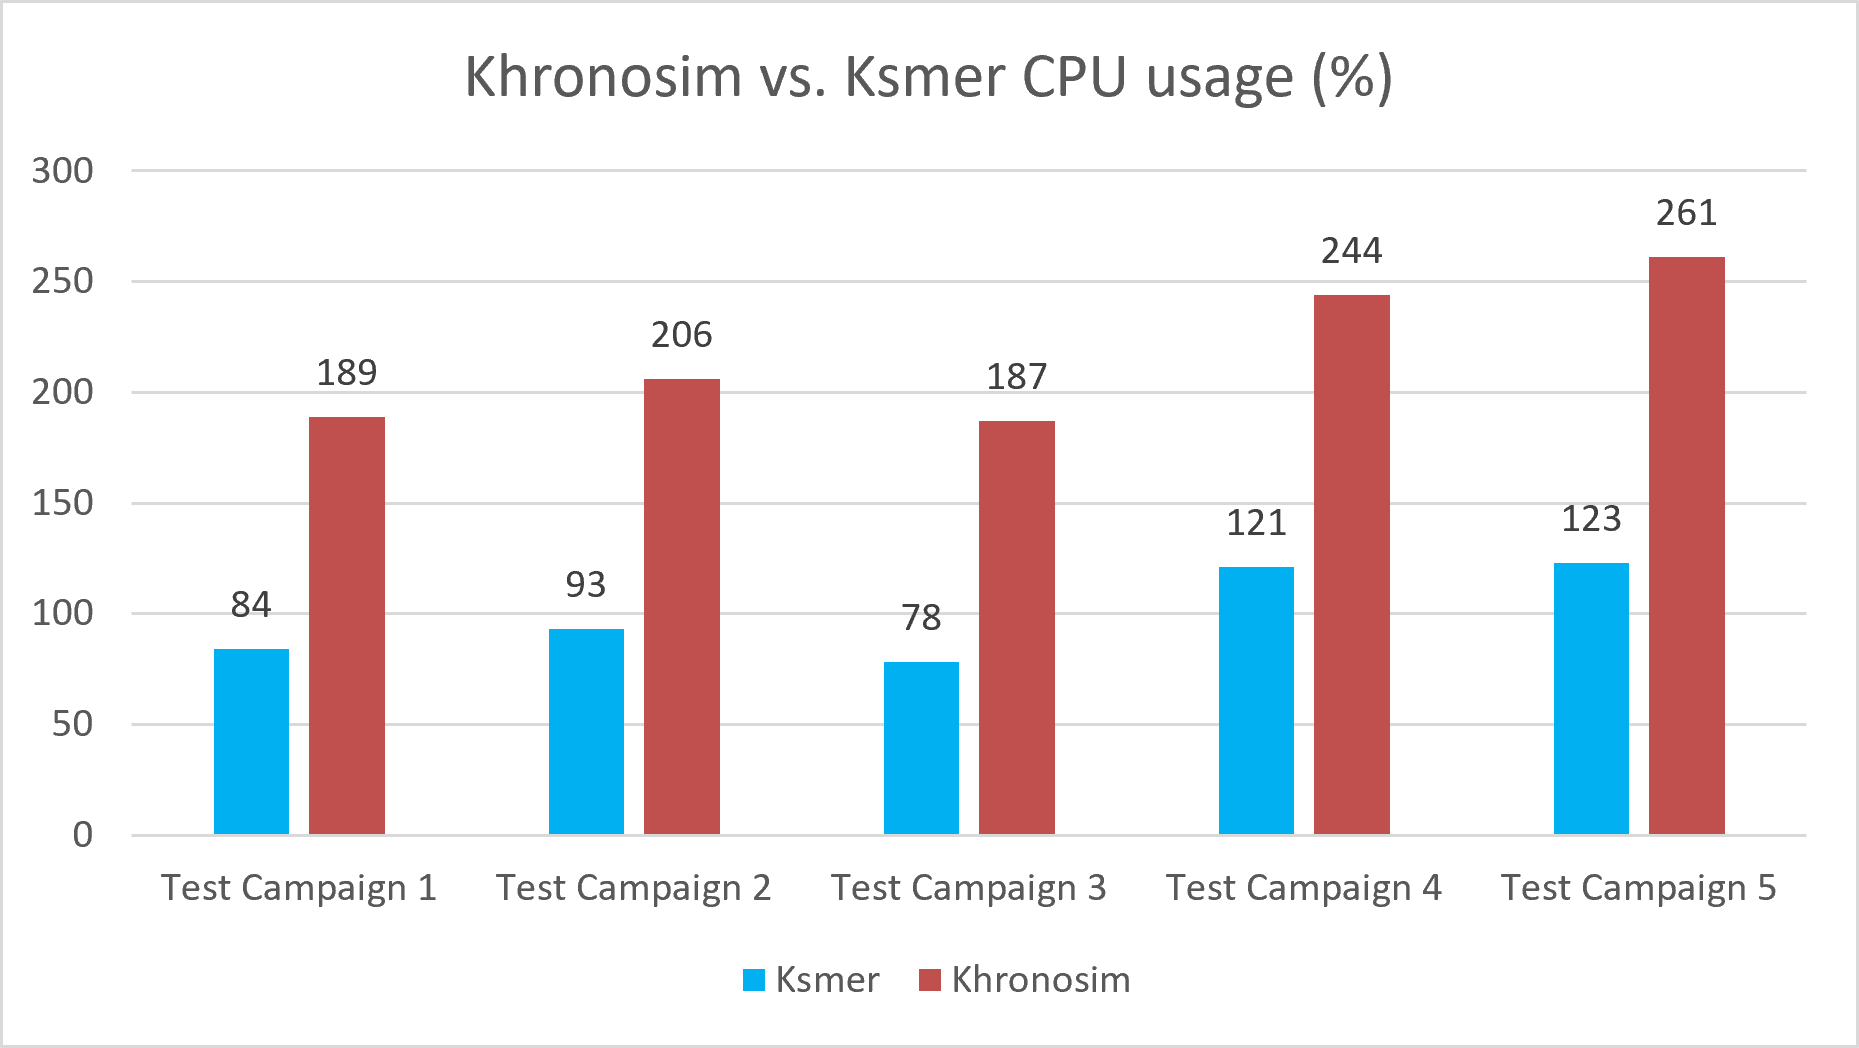
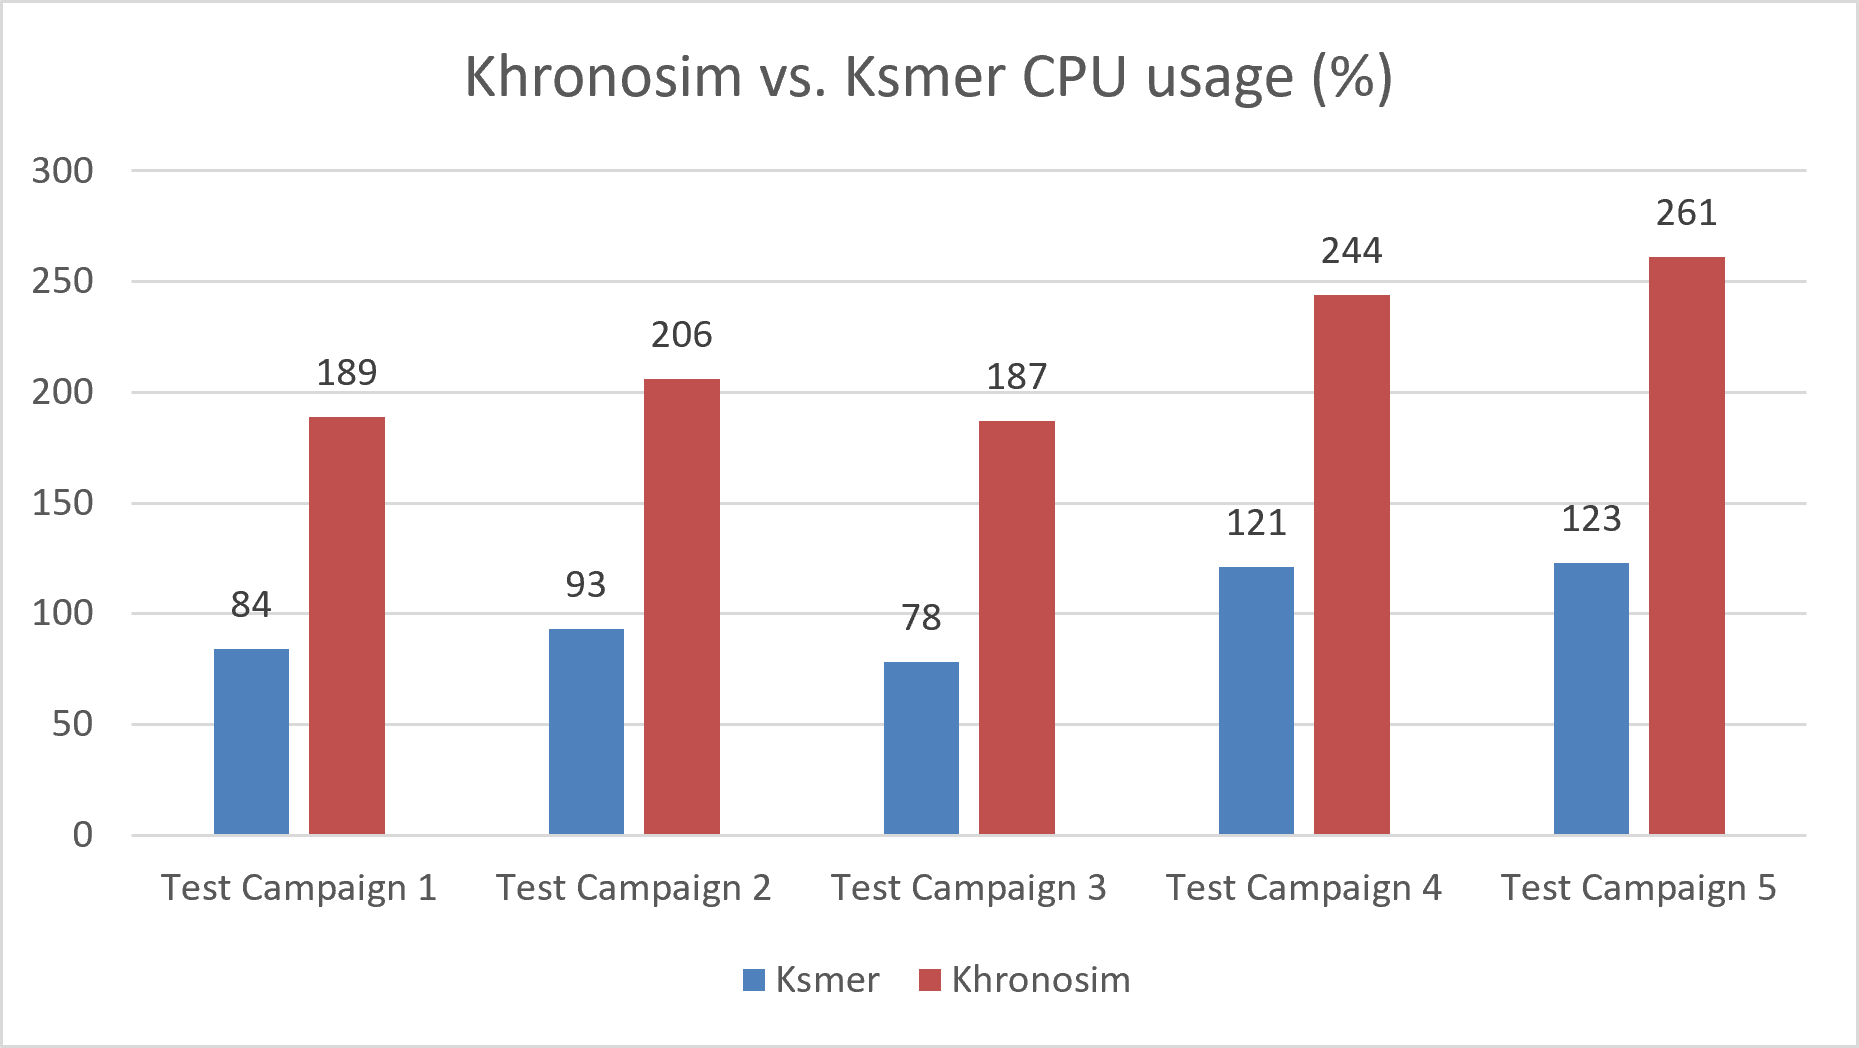
re-add green streaming post

diff --git a/_posts/2024-07-01-green_streaming.md b/_posts/2024-07-01-green_streaming.md
@@ -6,3 +6,68 @@ categories: [Internship project]
 tags: [TypeScript, SQL, Grafana, CDN, Data Analysis]
 image: /assets/green_streaming/logo.png
 ---
+
+## Overview
+
+Green Streaming is an internship project I was involved in at [Mog Technologies](https://evs.com/na) (now part of EVS Broadcast) during the development of a dissertation for the bachelor's degree in Informatic Engineering. This project had the goal of developing a data analysis tool to study media consumption patterns with the aim of optimizing content delivery and caching, ultimately reducing resource consumption.
+
+## Motivation
+
+Green Streaming surfaced as an European initiative to address the resource consumption challenges of streaming services, which may distribute content to millions of users worldwide inefficiently. The project aimed to analyze media consumption patterns and generate insights that could lead to more efficient content delivery strategies, such as better caching and optimized content distribution networks (CDNs).
+
+## Architecture and Technologies
+
+This project was composed of three separate components: a data collection and processing module, a data analysis module, and a visualization module. My contribution was focused on the collection, processing and visualization of data, while the analysis module, based on AI techniques and predictive models, was developed by another internship colleague. We shared insights with one another, which made developing the project more collaborative and rewarding.
+
+The data collection and processing module was responsible for gathering media consumption information from CDN logs. These logs could be acquired from the CDN provider's API or through an AWS S3 bucket where the logs were batched and stored. This module was developed using TypeScript, and had two modes of operation: a real-time mode that processed logs as they were generated, through the CDN API, and a batch mode that processed historical logs from the S3 bucket.
+
+The objective was to parse the logs and extract relevant information, storing it under a structured format in a relational database. This structured data could then be used for analysis and visualization. Four tables were created in the database: `Client`, `Video`, `Request` and `CDNNode`, they respectively stored information about the users, the media content, the access requests and the CDN server involved in content delivery. 
+
+Lastly the visualization module was developed using Grafana, a popular open-source platform for monitoring and observability. Grafana allowed the creation of interactive dashboards that displayed key metrics and insights derived from the collected data. These dashboards provided a visual representation of media consumption patterns, enabling stakeholders to identify trends and make informed decisions about content delivery strategies.
+
+The following diagram illustrates the architecture of my contribution to the Green Streaming project:
+
+<figure style="display:flex; flex-direction:column; align-items:center; gap:10px;">
+  <img src="/assets/green_streaming/media_consumption_analyzer.png" alt="architecture diagram" style="height:500px;">
+  <figcaption>
+    Distribution of clients worldwide, based on their IP addresses, to identify geographic patterns in media consumption.
+  </figcaption>
+</figure>
+
+## Dashboard and Insights
+
+The Grafana dashboard created for the Green Streaming project provided a comprehensive view of media consumption patterns. This was the ultimate goal of the project, as it allowed to validate that data was being collected and processed correctly, as well as to generate insights in graphical form, which could be easily interpreted by stakeholders. The dashboard included various panels, some of which are presented in the following images:
+
+<figure style="display:flex; flex-direction:column; align-items:center; gap:10px;">
+  <img src="/assets/green_streaming/clients_world.png" alt="Clients Distribution" style="height:350px;">
+  <figcaption>
+    Distribution of clients worldwide, based on their IP addresses, to identify geographic patterns in media consumption.
+  </figcaption>
+</figure>
+
+<figure style="display:flex; flex-direction:column; align-items:center; gap:10px;">
+  <img src="/assets/green_streaming/requests_world.png" alt="Requests Distribution" style="height:330px;">
+  <figcaption>
+    Distribution of requests worldwide, based on the location of the CDN nodes, to understand which servers are handling the most traffic.
+  </figcaption>
+</figure>
+
+<figure style="display:flex; flex-direction:column; align-items:center; gap:10px;">
+  <img src="/assets/green_streaming/requests_history.png" alt="Requests History" style="height:200px;">
+  <figcaption>
+    Requests count over time, aggregated by a configurable time interval (e.g., hourly, daily, etc.).
+  </figcaption>
+</figure>
+
+<figure style="display:flex; flex-direction:column; align-items:center; gap:10px;">
+  <img src="/assets/green_streaming/requests_hourly.png" alt="Hourly Requests" style="height:500px;">
+  <figcaption>
+    Total request count, aggregated by the hour of the day, to identify peak usage times.
+  </figcaption>
+</figure>
+
+These and other metrics extracted from the collected data provided the insights necessary to regulate content distribution and cdn configuration, reducing costs and resource consumption. For example, by identifying peak usage times and geographic patterns, the CDN could be optimized to cache content closer to users, reducing latency and bandwidth usage, as well as scaling resources more efficiently.
+
+## Conclusion
+
+The Green Streaming project was a valuable experience that allowed me to apply my skills to develop an extract-transform-load (ETL) workflow, as well as a data visualization solution to help solve a real-world problem. By analyzing media consumption patterns and generating insights, it was possible to contribute to the optimization of content delivery and caching strategies, ultimately reducing resource consumption for streaming services. The first contact with a company's environment, combined with the usage of technologies such as TypeScript, SQL, and Grafana, made it experience that allowed me to grow both professionally and personally, while also contributing to a project with a positive environmental impact.